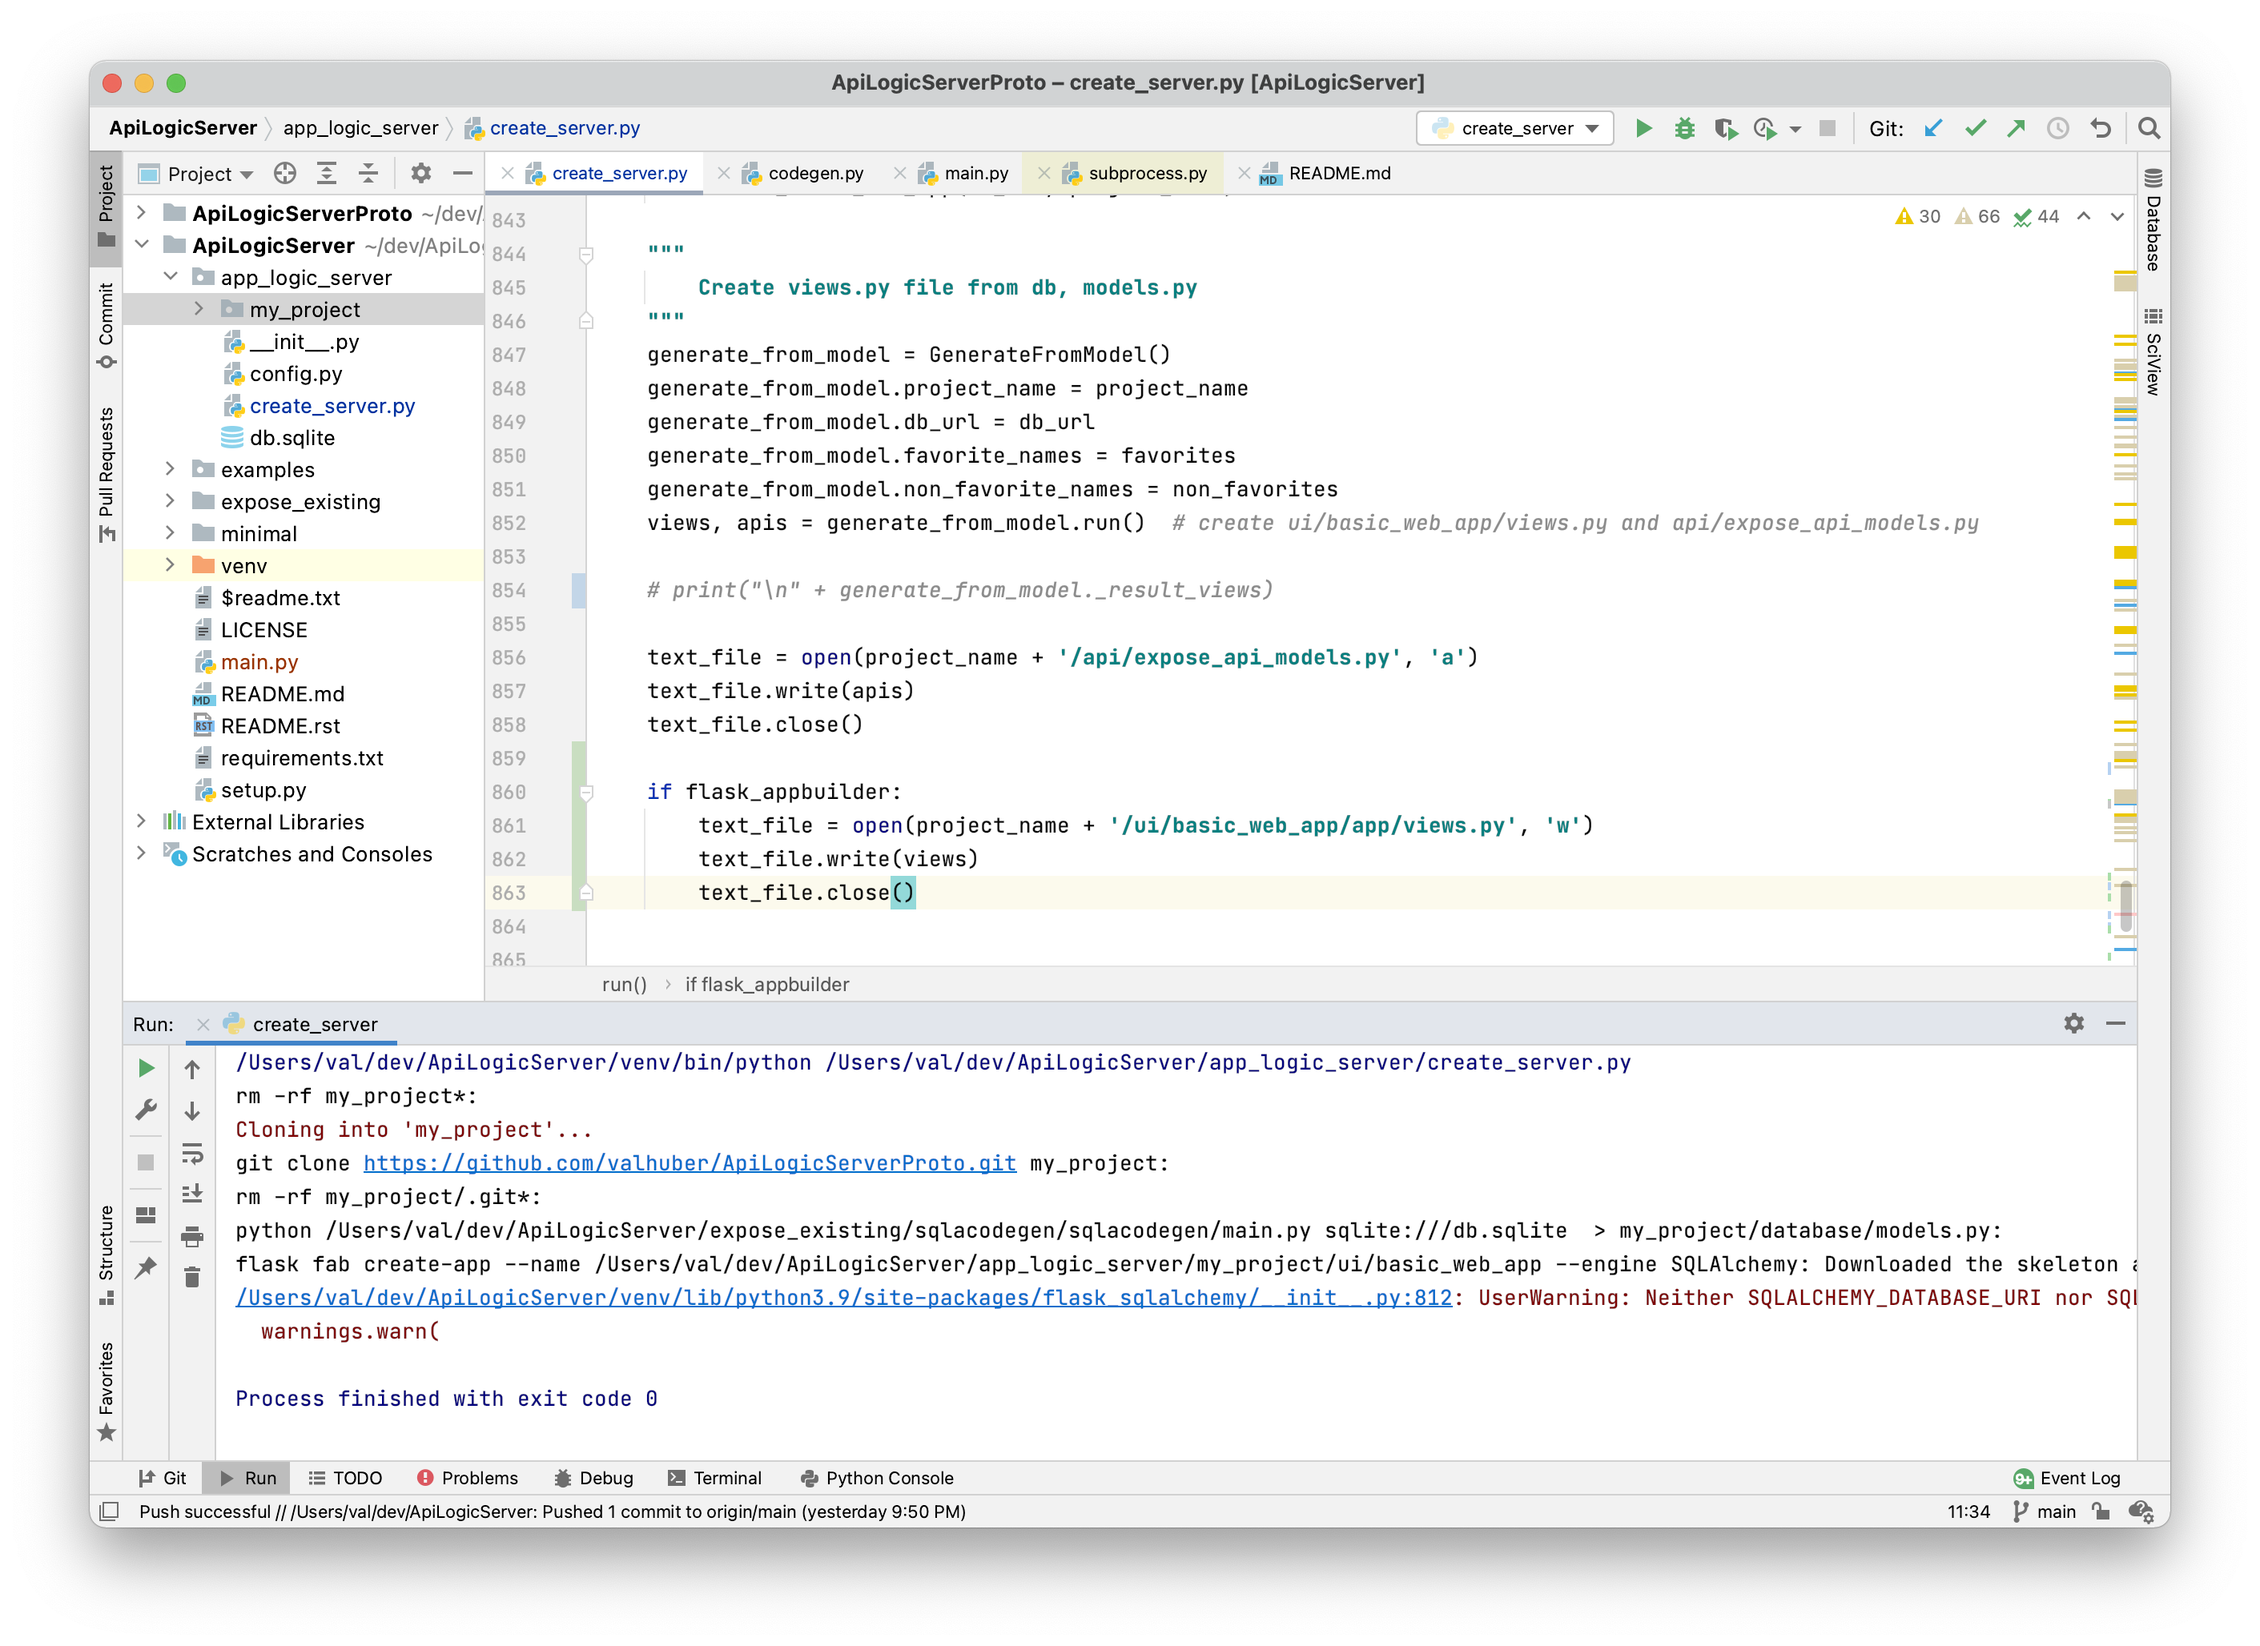
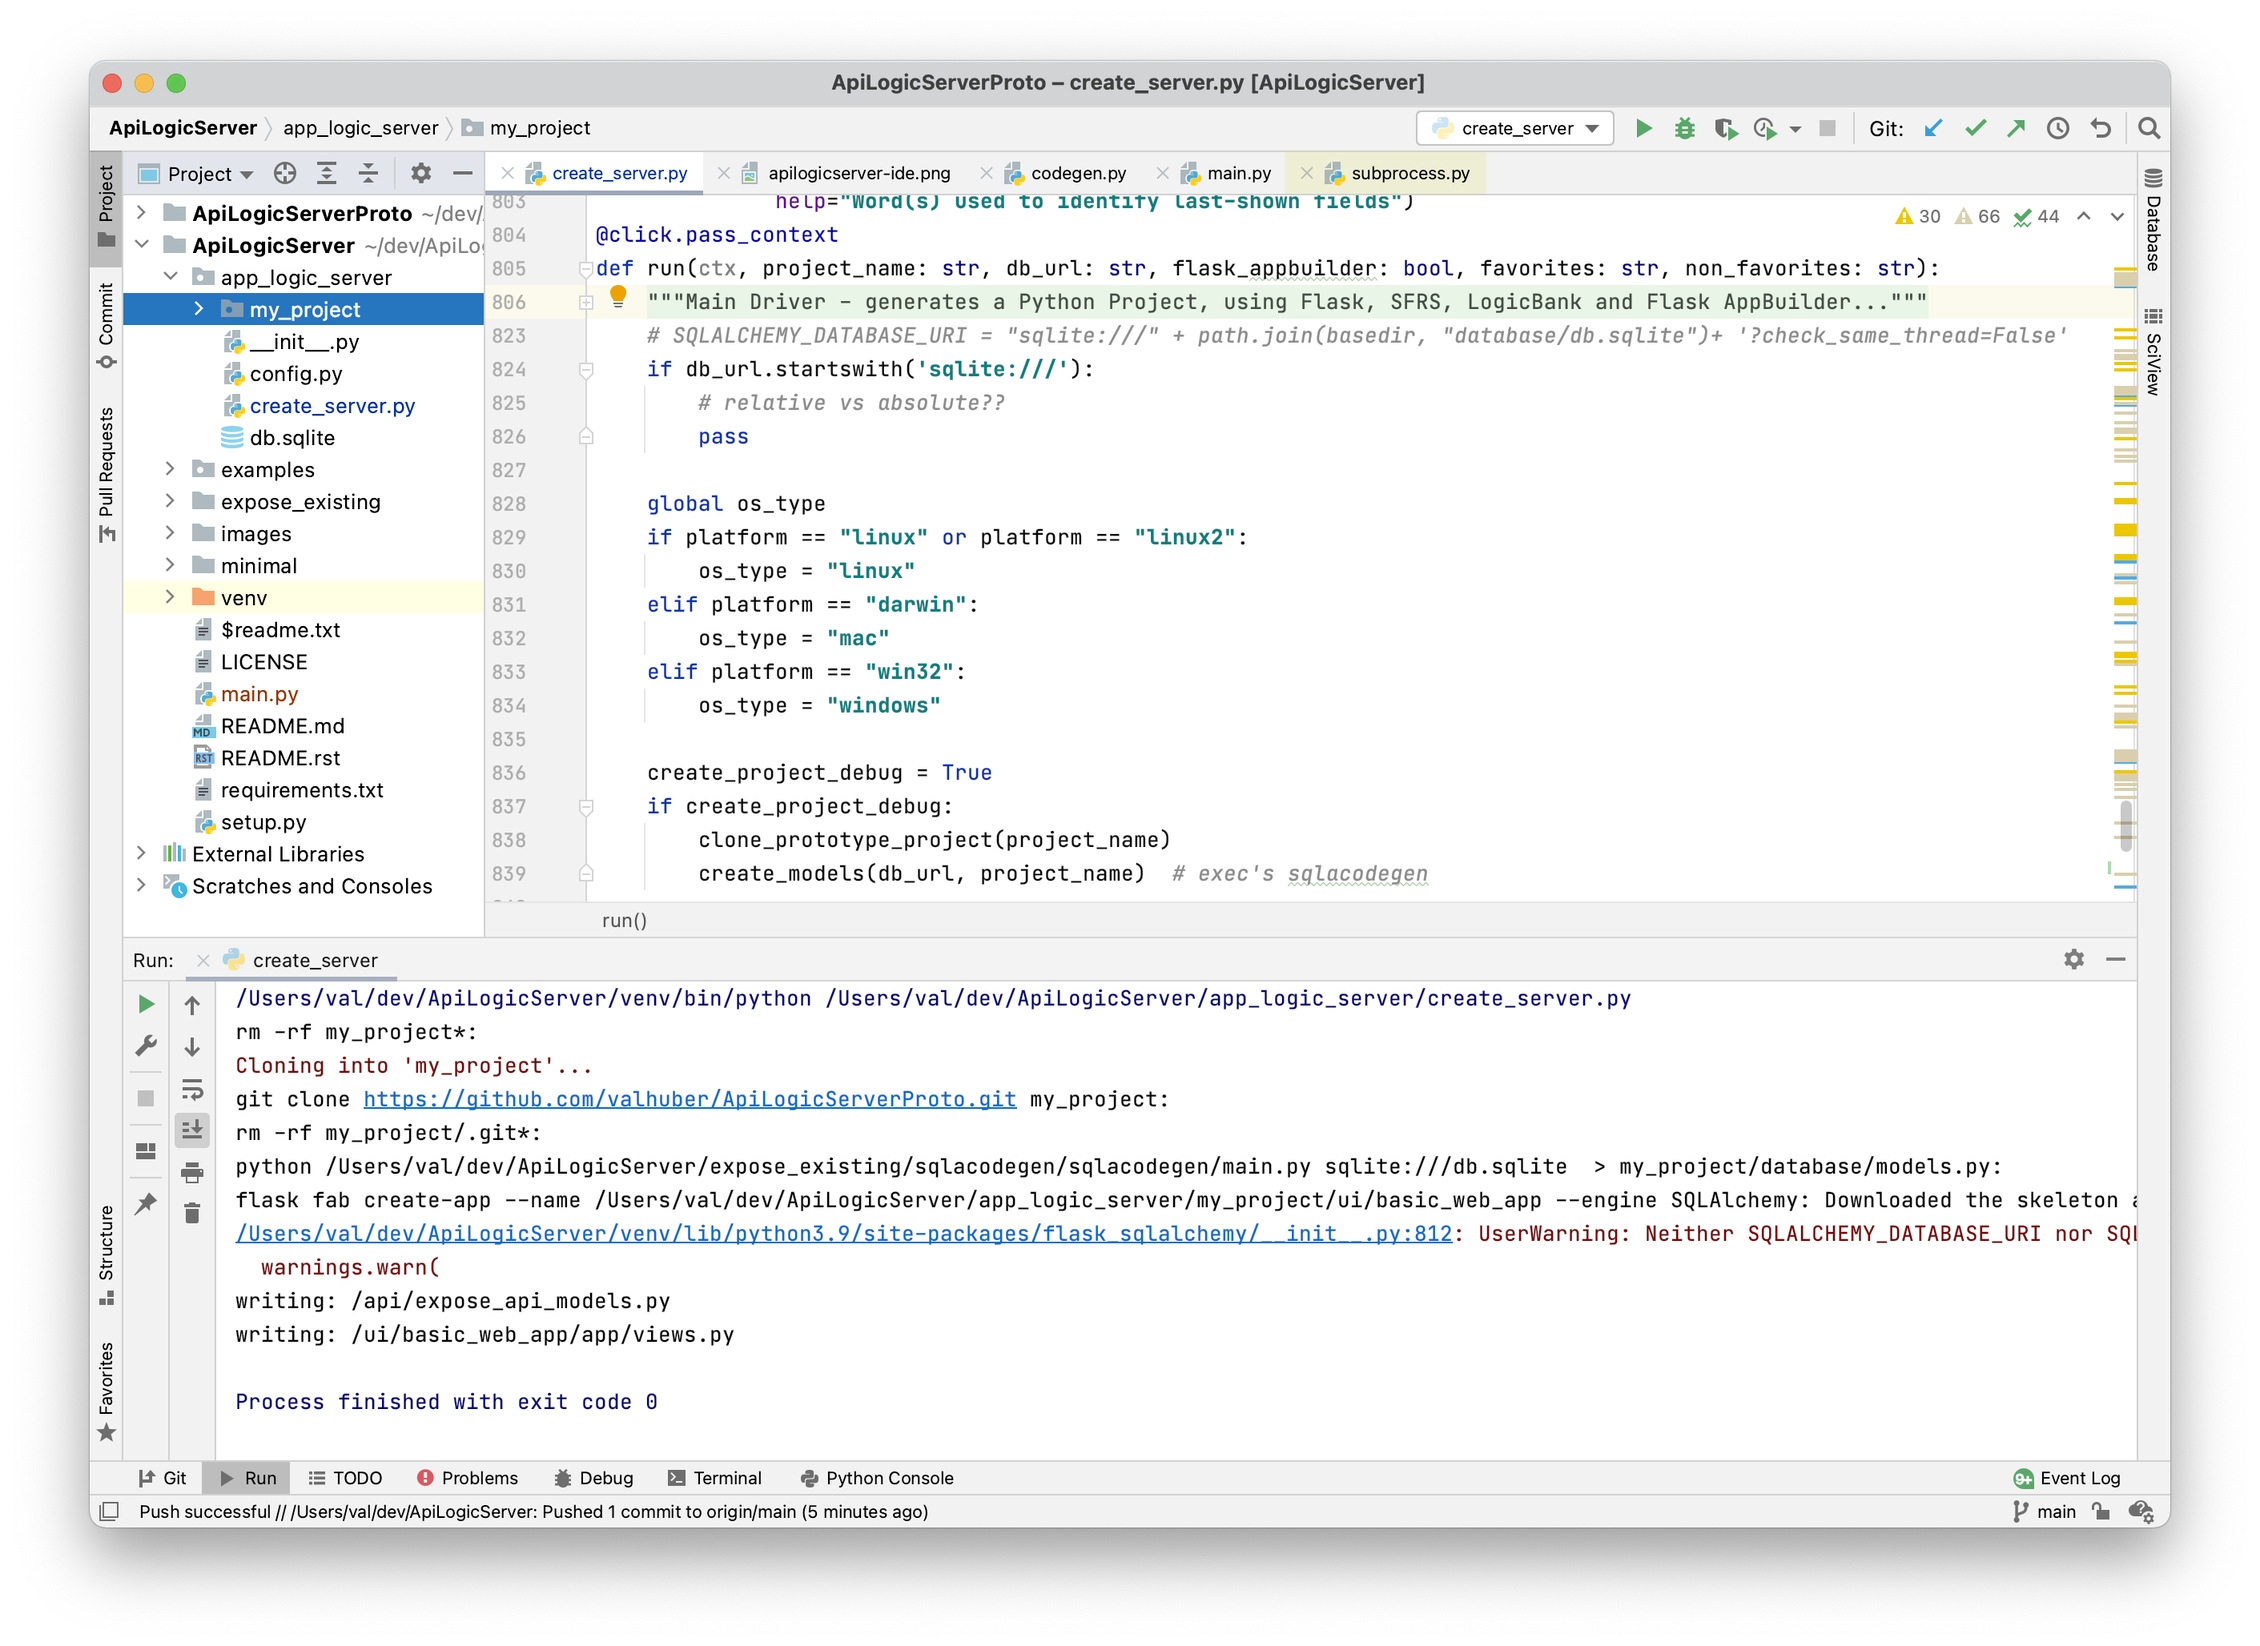
less wordy

diff --git a/app_logic_server/create_server.py b/app_logic_server/create_server.py
@@ -853,11 +853,13 @@ def run(ctx, project_name: str, db_url: str, flask_appbuilder: bool, favorites: 
 
     # print("\n" + generate_from_model._result_views)
 
+    print("writing: /api/expose_api_models.py")
     text_file = open(project_name + '/api/expose_api_models.py', 'a')
     text_file.write(apis)
     text_file.close()
 
     if flask_appbuilder:
+        print("writing: /ui/basic_web_app/app/views.py")
         text_file = open(project_name + '/ui/basic_web_app/app/views.py', 'w')
         text_file.write(views)
         text_file.close()
